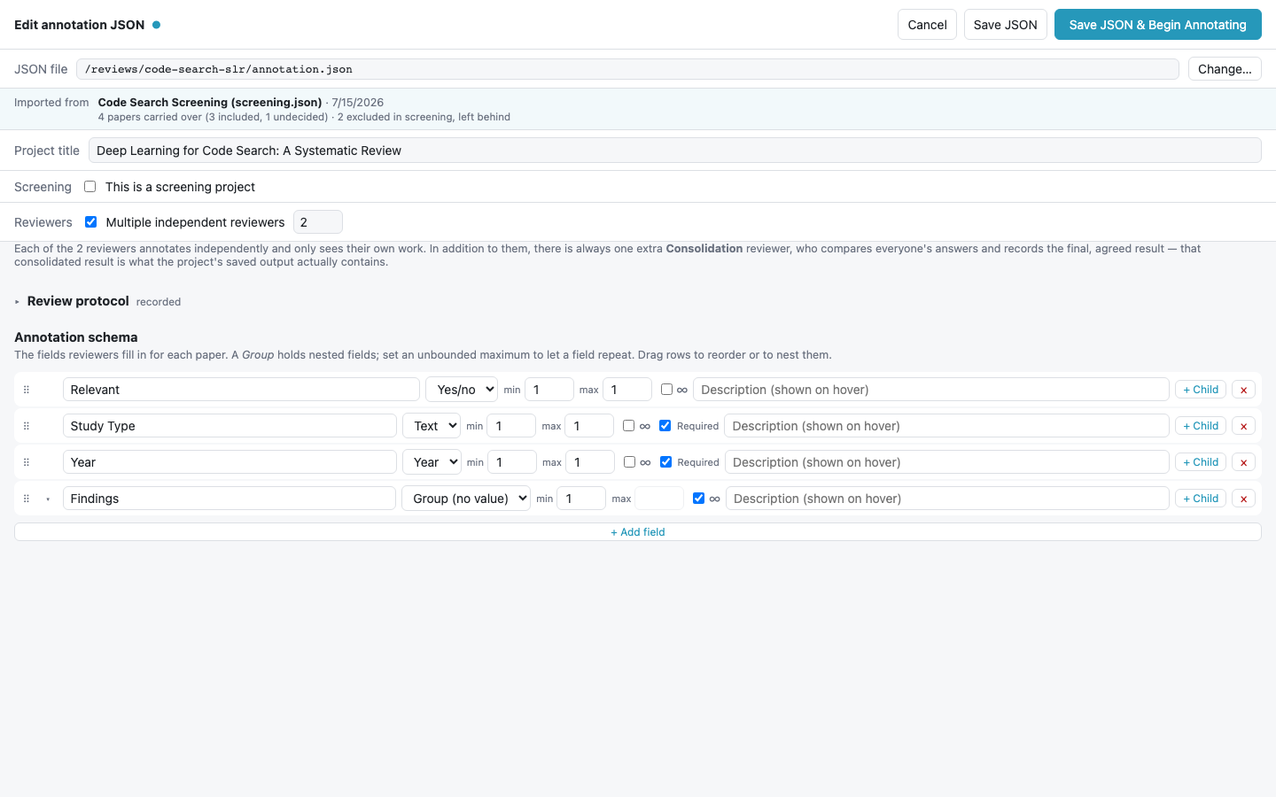
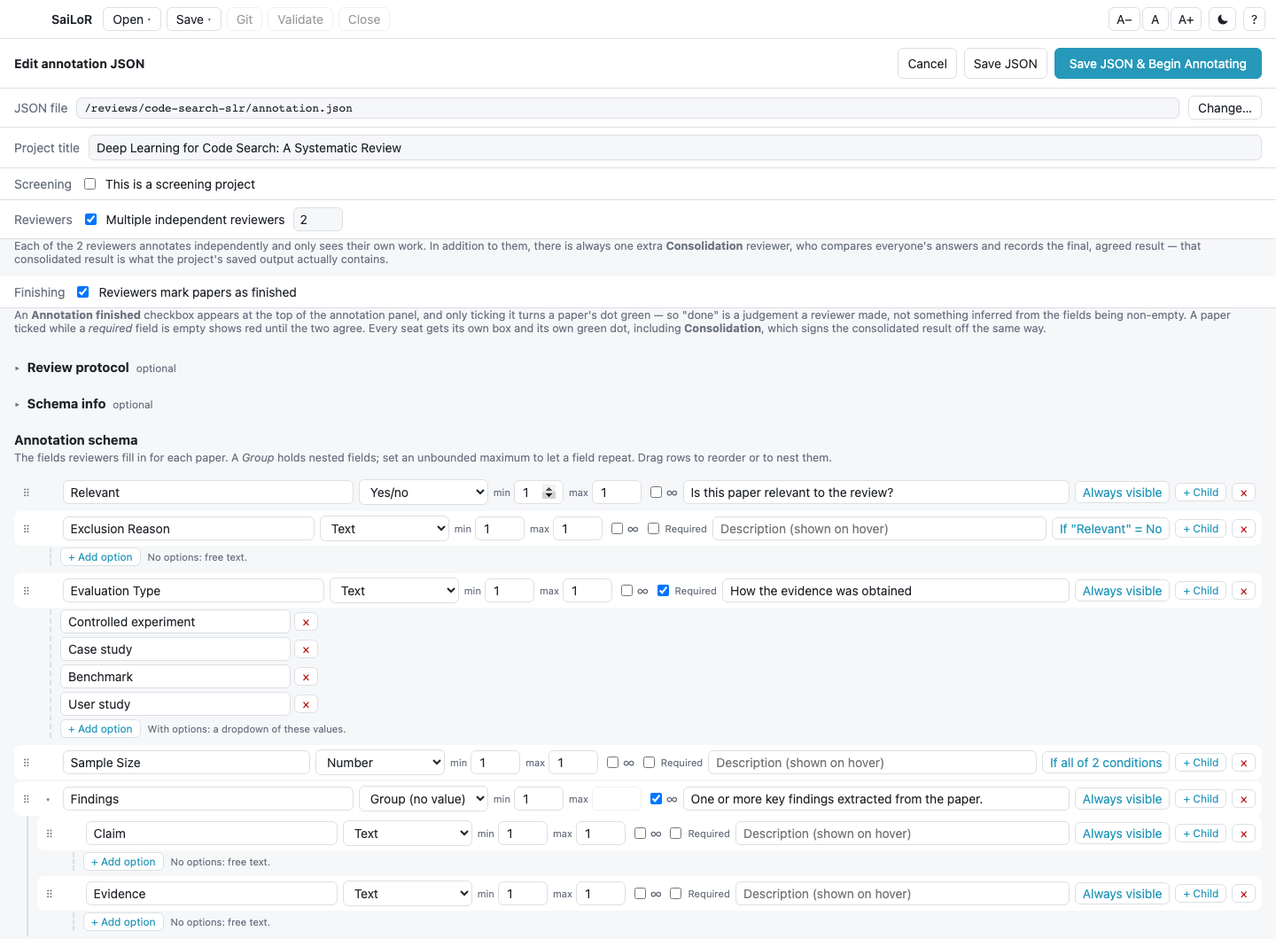
docs: document conditional visibility and refresh the project editor screenshots
`docs/annotation-schema.md` gains a section on `visibleIf`, which the format
reference never covered: the bare-name shorthand, value conditions, AND/OR,
nested groups, which fields may be referenced, and how a bare name differs
from a root path inside a repeatable group.

The project editor guide describes the visibility button and its dialog, and
its screenshot is retaken; a second one shows the dialog with a nested group.
Requirements REQ-DAT-110/140/200/220, REQ-EDT-60 and REQ-ANN-30 and the
traceability matrix follow the widened behaviour.

diff --git a/docs/requirements/traceability.md b/docs/requirements/traceability.md
@@ -62,18 +62,18 @@ inspection only.
 | REQ-DAT-80 | Degrade malformed sub-records without failing | Functional · Functional Suitability | `src/model/project.ts:347-571` | `src/model/model.test.ts:525, 777-789, 1015,1117-1146` | — | `openwiki/concepts/data-model.md` §Load: `loadProject`<br>`docs/annotation-schema.md` §2, §8 |
 | REQ-DAT-90 | Round-trip hostile values safely | Non-functional · Reliability, Security | — | `src/model/jsonvalues.test.ts:44-83` | commit `6933376` | `openwiki/concepts/data-model.md` §Load: `loadProject`<br>`docs/annotation-schema.md` §2, §8 |
 | REQ-DAT-100 | Mark PDF-extracted abstracts | Functional · Functional Suitability | `src/model/project.ts:745-748,828` | `src/model/model.test.ts:902-940` | — | `openwiki/concepts/data-model.md` §Load: `loadProject`<br>`docs/annotation-schema.md` §2, §8 |
-| REQ-DAT-110 | Schema node structure | Functional · Functional Suitability | `src/model/schema.ts:24-124` | `src/model/model.test.ts:58-144` | — | `openwiki/concepts/annotation-schema.md` §Field types / §Cardinality / §Resolution<br>`docs/annotation-schema.md` §3 |
+| REQ-DAT-110 | Schema node structure | Functional · Functional Suitability | `src/model/schema.ts:26-195` | `src/model/model.test.ts:58-144` | — | `openwiki/concepts/annotation-schema.md` §Field types / §Cardinality / §Resolution<br>`docs/annotation-schema.md` §3 |
 | REQ-DAT-120 | Unique sibling names | Functional · Functional Suitability | `src/model/schema.ts:296-327` | `src/model/model.test.ts:64` | — | `openwiki/concepts/annotation-schema.md` §Field types / §Cardinality / §Resolution<br>`docs/annotation-schema.md` §3 |
 | REQ-DAT-130 | Drop required on booleans | Functional · Functional Suitability | `src/model/schema.ts:340-345` | `src/model/model.test.ts:130` | — | `openwiki/concepts/annotation-schema.md` §Field types / §Cardinality / §Resolution<br>`docs/annotation-schema.md` §3 |
-| REQ-DAT-140 | Restrict visibleIf targets | Functional · Functional Suitability | `src/model/schema.ts:346-363` | `src/model/model.test.ts:165-235` | — | `openwiki/concepts/annotation-schema.md` §Field types / §Cardinality / §Resolution<br>`docs/annotation-schema.md` §3 |
+| REQ-DAT-140 | Restrict visibleIf targets and values | Functional · Functional Suitability | `src/model/schema.ts:346-443` | `src/model/model.test.ts:171-623` | — | `openwiki/concepts/annotation-schema.md` §Field types / §Cardinality / §Resolution<br>`docs/annotation-schema.md` §3 |
 | REQ-DAT-150 | Bound schema instance fan-out | Non-functional · Reliability, Security | `src/model/schema.ts:376-420` | `src/model/hostile.test.ts:18-67` | — | `openwiki/concepts/annotation-schema.md` §Field types / §Cardinality / §Resolution<br>`docs/annotation-schema.md` §3 |
 | REQ-DAT-160 | Normalize trees on load | Functional · Functional Suitability | `src/model/annotations.ts:64-124` | `src/model/model.test.ts:1221` | commit `b12f654` | `openwiki/concepts/data-model.md` §load → normalize → edit → prune → serialize |
 | REQ-DAT-170 | Prune only trailing empties on save | Functional · Functional Suitability | `src/model/annotations.ts:136-162`<br>`src/model/project.ts:877-879` | `src/model/model.test.ts:401,678` | — | `openwiki/concepts/data-model.md` §load → normalize → edit → prune → serialize |
 | REQ-DAT-180 | Total, non-throwing validation | Functional · Functional Suitability | `src/model/validate.ts:14-40,318-337` | — | — | `openwiki/concepts/annotation-schema.md` §Validation: the schema walk<br>`docs/annotation-schema.md` §8 |
 | REQ-DAT-190 | Required, type, enum, and cardinality checks | Functional · Functional Suitability | `src/model/validate.ts:57-243` | `src/model/validate.test.ts:116-128` | — | `openwiki/concepts/annotation-schema.md` §Validation: the schema walk<br>`docs/annotation-schema.md` §8 |
-| REQ-DAT-200 | Skip hidden fields in validation | Functional · Functional Suitability | `src/model/validate.ts:206-272` | `src/model/validate.test.ts:137-192` | — | `openwiki/concepts/annotation-schema.md` §Validation: the schema walk<br>`docs/annotation-schema.md` §8 |
+| REQ-DAT-200 | Skip hidden fields in validation | Functional · Functional Suitability | `src/model/validate.ts:206-280` | `src/model/validate.test.ts:137-284` | — | `openwiki/concepts/annotation-schema.md` §Validation: the schema walk<br>`docs/annotation-schema.md` §8 |
 | REQ-DAT-210 | Separate unannotated papers | Functional · Functional Suitability | `src/model/validate.ts:300-340`<br>`src/components/ValidationDialog.tsx:146-169` | — | — | `openwiki/concepts/annotation-schema.md` §Validation: the schema walk<br>`docs/annotation-schema.md` §8 |
-| REQ-DAT-220 | Completeness over the validated field set | Functional · Functional Suitability | `src/model/completeness.ts:24-59` | `src/model/completeness.test.ts:89-284` | — | `openwiki/concepts/annotation-schema.md` §Completeness and the paper-list dot<br>`user-guide/getting-started.md` §The completeness dot |
+| REQ-DAT-220 | Completeness over the validated field set | Functional · Functional Suitability | `src/model/completeness.ts:24-59` | `src/model/completeness.test.ts:89-351` | — | `openwiki/concepts/annotation-schema.md` §Completeness and the paper-list dot<br>`user-guide/getting-started.md` §The completeness dot |
 | REQ-DAT-230 | Non-misleading percentage display | Functional · Functional Suitability | `src/model/completeness.ts:124-129` | `src/model/completeness.test.ts:300-318` | — | `openwiki/concepts/annotation-schema.md` §Completeness and the paper-list dot<br>`user-guide/getting-started.md` §The completeness dot |
 | REQ-DAT-240 | Finished is a human declaration | Functional · Functional Suitability | `src/model/project.ts:135-152, 758,861` | — | — | `openwiki/concepts/data-model.md` §The five-state annotation vocabulary<br>`user-guide/getting-started.md` §Marking a paper finished |
 | REQ-DAT-250 | Derive finished when the checkbox is disabled | Functional · Functional Suitability | `src/model/annotationState.ts:79-87,205-207` | `src/components/PaperList.finished.test.ts:207-267` | — | `openwiki/concepts/data-model.md` §The five-state annotation vocabulary<br>`user-guide/getting-started.md` §Marking a paper finished |
@@ -95,7 +95,7 @@ inspection only.
 | REQ-EDT-30 | Create papers from PDFs | Functional · Functional Suitability | `src/state/editorStore.ts:300-350,1213-1237` | — | — | `openwiki/architecture.md` §Project editor<br>`user-guide/project-editor.md` |
 | REQ-EDT-40 | Warn before destroying answers | Functional · Functional Suitability | `src/components/SchemaTreeEditor.tsx:124-276`<br>`src/model/fieldUsage.ts:59-140` | — | commits `a0034e9`<br>`638e1b5` | `openwiki/architecture.md` §Project editor<br>`user-guide/project-editor.md`<br>`openwiki/concepts/annotation-schema.md` §Field usage: guarding schema renames and removes |
 | REQ-EDT-50 | Confirm removal of annotated papers | Functional · Functional Suitability | `src/components/PapersEditor.tsx:90-102` | — | — | `openwiki/architecture.md` §Project editor<br>`user-guide/project-editor.md` |
-| REQ-EDT-60 | Edit schema tree graphically | Functional · Functional Suitability | `src/components/SchemaTreeEditor.tsx:20-26, 211-240,285-509` | — | — | `openwiki/architecture.md` §Project editor<br>`user-guide/project-editor.md` |
+| REQ-EDT-60 | Edit schema tree graphically | Functional · Functional Suitability | `src/components/SchemaTreeEditor.tsx:20-26, 211-240,285-470`<br>`src/components/VisibleIfDialog.tsx:150-1004` | `src/components/VisibleIfDialog.test.ts` | — | `openwiki/architecture.md` §Project editor<br>`user-guide/project-editor.md` |
 | REQ-EDT-70 | Record the review protocol | Functional · Functional Suitability | `src/components/ProtocolEditor.tsx:38-132`<br>`src/model/project.ts:515-534` | — | — | `openwiki/architecture.md` §Project editor<br>`user-guide/project-editor.md` |
 | REQ-EDT-80 | Show schema info once per load | Functional · Functional Suitability | `src/components/SchemaInfoDialog.tsx:5-63` | — | commit `8322d10` | `openwiki/architecture.md` §Project editor<br>`user-guide/project-editor.md` |
 | REQ-EDT-90 | Reorder papers by drag | Functional · Functional Suitability | `src/components/PapersEditor.tsx:43-343` | — | — | `openwiki/architecture.md` §Project editor<br>`user-guide/project-editor.md` |
@@ -106,7 +106,7 @@ inspection only.
 |---|---|---|---|---|---|---|
 | REQ-ANN-10 | Render form from schema | Functional · Functional Suitability | `src/components/AnnotationPanel.tsx:92-116`<br>`src/components/AnnotationNode.tsx` | — | — | `openwiki/architecture.md` §AnnotationNode (recursive renderer) / §Field component<br>`user-guide/getting-started.md` |
 | REQ-ANN-20 | Type-specific field controls | Functional · Functional Suitability | `src/components/Field.tsx:18, 135-191,471-513` | — | — | `openwiki/architecture.md` §AnnotationNode (recursive renderer) / §Field component<br>`user-guide/getting-started.md` |
-| REQ-ANN-30 | Conditional field visibility | Functional · Functional Suitability | `src/model/annotations.ts:195-211`<br>`src/components/AnnotationNode.tsx:115-135` | — | commits `254ad06`<br>`e1b3dd0`<br>`a5061b0` | `openwiki/architecture.md` §AnnotationNode (recursive renderer) / §Field component<br>`user-guide/getting-started.md` |
+| REQ-ANN-30 | Conditional field visibility | Functional · Functional Suitability | `src/model/annotations.ts:216-287`<br>`src/components/AnnotationNode.tsx:115-140` | `src/model/model.test.ts:645-948` | commits `254ad06`<br>`e1b3dd0`<br>`a5061b0` | `openwiki/architecture.md` §AnnotationNode (recursive renderer) / §Field component<br>`user-guide/getting-started.md` |
 | REQ-ANN-40 | Cardinality-controlled instances | Functional · Functional Suitability | `src/components/AnnotationNode.tsx:67-93`<br>`src/model/annotations.ts:127-134` | — | — | `openwiki/architecture.md` §AnnotationNode (recursive renderer) / §Field component<br>`user-guide/getting-started.md` |
 | REQ-ANN-50 | Grab value from PDF selection | Functional · Functional Suitability | `src/components/Field.tsx:117-133, 154-155,192-201` | — | — | `openwiki/architecture.md` §AnnotationNode (recursive renderer) / §Field component<br>`user-guide/getting-started.md` |
 | REQ-ANN-60 | Field descriptions with links | Functional · Functional Suitability | `src/components/NodeName.tsx:18-34,83-256`<br>`src/model/linkify.ts:14-55` | — | commits `2b66bac`<br>`4271e2e` | `openwiki/architecture.md` §AnnotationNode (recursive renderer) / §Field component<br>`user-guide/getting-started.md` |

diff --git a/docs/annotation-schema.md b/docs/annotation-schema.md
@@ -165,6 +165,7 @@ thing you want to record. A node is written as a JSON object (its technical name
 | `options`     | array of strings                       | no       | —       | Turns a `string` field into an **enum dropdown** of allowed values (see §3.2).            |
 | `required`    | boolean                                | no       | `false` | Marks a **field** the reviewer must fill in. Shows a `*` next to the name; an empty one is reported by validation. Only valid on a node with a `type` — **and never on a `boolean`**: an unticked checkbox is already a real answer (`false`), so a boolean is never "empty" and `required` on one can never fire. The editor doesn't offer it there, and a stray one in a hand-edited file is dropped on load (not an error). |
 | `description` | string                                 | no       | —       | A help note. The name shows an ⓘ marker and reveals this text on hover.                    |
+| `visibleIf`   | string or object                       | no       | —       | Hides this node until another field is answered — or holds a specific value. Combine several conditions with AND/OR (see §3.6). |
 
 Two structural rules the app enforces:
 
@@ -373,6 +374,149 @@ You can bound a repeatable group as well. Between one and three threats:
   ]
 }
 ```
+
+### 3.6 Conditional visibility: `visibleIf`
+
+A node can be hidden until another field says it is relevant. In the shortest form,
+`visibleIf` is the **name of another field**, and the node appears once that field has an
+answer:
+
+```json
+[
+  { "name": "Relevant", "type": "boolean" },
+  { "name": "Study Type", "type": "string", "visibleIf": "Relevant" }
+]
+```
+
+`Study Type` stays hidden while `Relevant` is unticked, and appears the moment it is ticked.
+"Answered" means: ticked for a `boolean`, and any non-empty value for everything else.
+
+**Which fields may be referenced.** A condition may name
+
+- a **field at the same level** (a sibling in the same `children` array, or in the root list), or
+- a field **anywhere on the direct ancestor chain** — the parent, its parent, and so on, named by
+  its bare name, or
+- **any other field in the schema**, named by its **path from the root**, slash-joined:
+  `"Outcomes/Effect Size"`. A root-level field referenced from inside a group is a one-segment
+  path, so a bare name that is neither a sibling nor an ancestor is looked up this way too.
+
+It may **not** name a group (a group holds no value), itself, or anything **inside its own
+sub-tree** — a field under a hidden node can never be answered, so such a gate could never
+open. An unusable reference is dropped silently when the project loads, and simply stops
+gating anything — a renamed or removed target field is *not* reported.
+
+The distinction between the two spellings matters inside a **repeatable** group. A bare name is
+resolved per entry: `Findings[2]/Evidence` gated on the bare name `Claim` reads *that same
+entry's* `Claim`. A path from the root is resolved once, taking the **first** entry of every
+repeatable node along the way — there is no "current" entry outside the gated node's own
+lineage, so the first one is what a cross-branch condition reads.
+
+`visibleIf` works on a **group** too, in which case the whole sub-tree is hidden. A hidden
+field is skipped by validation and by the completeness dot, so a `required` field behind an
+unsatisfied gate never counts against a paper.
+
+#### Matching a specific value
+
+The longer form of `visibleIf` is an object with a `mode` and a list of `conditions`:
+
+```json
+{
+  "name": "Exclusion Reason",
+  "type": "string",
+  "visibleIf": {
+    "mode": "all",
+    "conditions": [{ "field": "Relevant", "equals": [false] }]
+  }
+}
+```
+
+Now `Exclusion Reason` appears exactly when `Relevant` is **unticked** — something the short
+form cannot express, since an unticked box reads as "not answered".
+
+`equals` lists the values that satisfy the condition; several values mean "any of these".
+It only works on a field with a **closed set of answers**:
+
+- a `boolean` field — `[true]`, `[false]`, or both;
+- a `string` field with **`options`** — any subset of those options.
+
+```json
+{
+  "name": "Sample Size",
+  "type": "number",
+  "visibleIf": {
+    "mode": "all",
+    "conditions": [{ "field": "Evaluation Type", "equals": ["Controlled experiment", "User study"] }]
+  }
+}
+```
+
+On a free-text, `number` or `year` field there is no set to choose from, so an `equals` there is
+dropped on load and the condition falls back to plain "is it answered". Values that are not
+among the target's `options` are dropped the same way.
+
+#### Combining conditions: AND / OR
+
+With more than one condition, `mode` decides how they combine:
+
+- `"all"` — **AND**: every condition must hold.
+- `"any"` — **OR**: at least one condition must hold.
+
+```json
+{
+  "name": "Replication Package URL",
+  "type": "string",
+  "visibleIf": {
+    "mode": "all",
+    "conditions": [
+      { "field": "Relevant", "equals": [true] },
+      { "field": "Artifacts Available", "equals": [true] }
+    ]
+  }
+}
+```
+
+Each condition is looked up on its own, so one condition may watch a sibling and the next an
+ancestor. A condition naming a field that cannot be found at all is treated as satisfied — a
+malformed gate never makes a field permanently unreachable.
+
+#### Nested condition groups
+
+An entry of `conditions` may be **another gate** instead of a single condition, which is how a
+mixed rule gets written: the inner group carries its own `mode`, and the outer one combines it
+with everything else.
+
+```json
+{
+  "name": "Sample Size",
+  "type": "number",
+  "visibleIf": {
+    "mode": "all",
+    "conditions": [
+      { "field": "Relevant", "equals": [true] },
+      {
+        "mode": "any",
+        "conditions": [
+          { "field": "Study Type", "equals": ["Controlled experiment"] },
+          { "field": "Study Type", "equals": ["User study"] }
+        ]
+      }
+    ]
+  }
+}
+```
+
+That reads: shown if `Relevant` is ticked **and** (`Study Type` is a controlled experiment **or**
+a user study). Groups may nest as deeply as the rule needs. A group that ends up with no usable
+conditions is dropped from its parent, exactly as a single unusable condition is — and if that
+empties the whole gate, the node becomes always visible again.
+
+(The example above is deliberately over-written to show the nesting: two `equals` on the same
+field are the same thing as one condition listing both values.)
+
+In the project editor you do not write any of this by hand: the schema row has a **link
+button** showing the current rule ("Always visible", `If "Relevant" = Yes`, …), and
+clicking it opens a dialog where conditions are added, pointed at a field, given values, and
+combined with AND or OR — including nested groups, for the mixed rules above.
 
 ---
 

diff --git a/docs/requirements/data-model.md b/docs/requirements/data-model.md
@@ -71,9 +71,9 @@ the project editor. See the [index](index.md) for the glossary.
 ## Annotation schema
 
 ### REQ-DAT-110 — Schema node structure
-- **Description:** The system shall accept schema nodes with a non-empty name, an optional field type of string, number, boolean, or year, cardinality bounds `min` (integer ≥ 0, default 1) and `max` (integer ≥ 1 or null for unbounded, default 1, at least `min` when finite), optional description, enum options (string fields only), a required flag (typed fields only), a `visibleIf` reference, and children, rejecting unknown node keys and nodes with neither a type nor children.
+- **Description:** The system shall accept schema nodes with a non-empty name, an optional field type of string, number, boolean, or year, cardinality bounds `min` (integer ≥ 0, default 1) and `max` (integer ≥ 1 or null for unbounded, default 1, at least `min` when finite), optional description, enum options (string fields only), a required flag (typed fields only), a `visibleIf` gate (either a bare field name or an object with a `mode` of `all`/`any` and a non-empty list of entries, each a `{ field, equals? }` condition or a nested group of the same shape), and children, rejecting unknown node keys and nodes with neither a type nor children.
 - **Type:** Functional (ISO 25010: Functional Suitability)
-- **Evidence:** `src/model/schema.ts:24-124`, `src/model/model.test.ts:58-144`
+- **Evidence:** `src/model/schema.ts:26-195`, `src/model/model.test.ts:58-144`
 - **Status:** Implemented
 
 ### REQ-DAT-120 — Unique sibling names
@@ -88,10 +88,10 @@ the project editor. See the [index](index.md) for the glossary.
 - **Evidence:** `src/model/schema.ts:340-345`, `src/model/model.test.ts:130`
 - **Status:** Implemented
 
-### REQ-DAT-140 — Restrict visibleIf targets
-- **Description:** The system shall honor a `visibleIf` reference only when it names a same-level typed sibling or a typed field on the direct ancestor chain, and shall drop invalid references at schema resolution.
+### REQ-DAT-140 — Restrict visibleIf targets and values
+- **Description:** The system shall normalize every `visibleIf` gate at schema resolution — expanding the bare-name form into a single `all` condition and recursing into nested groups — and shall resolve each condition's `field` as a same-level typed sibling, else a typed field on the direct ancestor chain, else a slash-joined absolute path from the schema root, dropping the condition when it resolves to the gated node itself, to anything in the gated node's own subtree, to a group, or to nothing; then any group left empty, and, once none is left, the whole gate. An `equals` shall be honored only on a boolean field (its `true`/`false`) or a string field with non-empty `options` (values among those options); values the target cannot hold, and any `equals` on a free-text, number, or year field, shall be dropped so that the condition degrades to "is it answered".
 - **Type:** Functional (ISO 25010: Functional Suitability)
-- **Evidence:** `src/model/schema.ts:346-363`, `src/model/model.test.ts:165-235`
+- **Evidence:** `src/model/schema.ts:346-443`, `src/model/model.test.ts:171-623`
 - **Status:** Implemented
 
 ### REQ-DAT-150 — Bound schema instance fan-out
@@ -129,9 +129,9 @@ the project editor. See the [index](index.md) for the glossary.
 - **Status:** Implemented
 
 ### REQ-DAT-200 — Skip hidden fields in validation
-- **Description:** When a field or group is hidden by an unanswered `visibleIf` gate, the system shall exclude it from validation.
+- **Description:** When a field or group is hidden by an unsatisfied `visibleIf` gate — whether the gate asks for any answer or for specific values — the system shall exclude it from validation.
 - **Type:** Functional (ISO 25010: Functional Suitability)
-- **Evidence:** `src/model/validate.ts:206-272`, `src/model/validate.test.ts:137-192`
+- **Evidence:** `src/model/validate.ts:206-280`, `src/model/validate.test.ts:137-284`
 - **Status:** Implemented
 
 ### REQ-DAT-210 — Separate unannotated papers
@@ -145,7 +145,7 @@ the project editor. See the [index](index.md) for the glossary.
 ### REQ-DAT-220 — Completeness over the validated field set
 - **Description:** The system shall compute a paper's completeness as filled over counted fields, counting only required fields when the schema marks any field required and all fields otherwise, excluding boolean fields and fields hidden by visibility gates, using the same rule as validation.
 - **Type:** Functional (ISO 25010: Functional Suitability)
-- **Evidence:** `src/model/completeness.ts:24-59`, `src/model/completeness.test.ts:89-284`
+- **Evidence:** `src/model/completeness.ts:24-59`, `src/model/completeness.test.ts:89-351`
 - **Status:** Implemented
 
 ### REQ-DAT-230 — Non-misleading percentage display
@@ -285,9 +285,9 @@ the project editor. See the [index](index.md) for the glossary.
 - **Status:** Implemented
 
 ### REQ-EDT-60 — Edit schema tree graphically
-- **Description:** The system shall provide a drag-and-drop schema tree editor offering group, text, number, year, and yes/no nodes, inline enum options, cardinality inputs with an unbounded toggle, descriptions, a required checkbox for eligible fields, a `visibleIf` selector restricted to legal targets, and refusal of drops into a node's own subtree.
+- **Description:** The system shall provide a drag-and-drop schema tree editor offering group, text, number, year, and yes/no nodes, inline enum options, cardinality inputs with an unbounded toggle, descriptions, a required checkbox for eligible fields, a visibility-gate button that summarizes the node's `visibleIf` and opens a dialog for editing it (the gated node's tree path and type, conditions restricted to legal targets and labelled with each target's level and value kind, an explicit any-answer/specific-value choice per condition, values offered only for yes/no and option-list fields, arbitrarily nested AND/OR groups that can be extended after creation, targets listed same-level first then ancestors then the rest of the schema in document order, per-entry reordering and removal, and drag-and-drop of a condition or a whole group into another group), and refusal of drops into a node's own subtree.
 - **Type:** Functional (ISO 25010: Functional Suitability)
-- **Evidence:** `src/components/SchemaTreeEditor.tsx:20-26,211-240,285-509`
+- **Evidence:** `src/components/SchemaTreeEditor.tsx:20-26,211-240,285-470`, `src/components/VisibleIfDialog.tsx:150-1004`, `src/components/VisibleIfDialog.test.ts`
 - **Status:** Implemented
 
 ### REQ-EDT-70 — Record the review protocol

diff --git a/user-guide/project-editor.md b/user-guide/project-editor.md
@@ -8,7 +8,7 @@ Reach it from the start screen (**New annotation JSON…** / **Edit annotation J
 *Open ▾* while a project is already open.
 
 <p align="center">
-  <img src="screenshots/project-editor-schema.png" alt="The project editor: location, title, screening toggle, reviewer count, the review protocol section, and the schema tree" width="900">
+  <img src="screenshots/project-editor-schema.png" alt="The project editor: location, title, screening toggle, reviewer count, the review protocol section, and the schema tree with a visibility button on every row" width="900">
 </p>
 
 ## Where the JSON lives
@@ -31,14 +31,62 @@ Each row is one field or group:
   stays free text.
 - **Required** — the reviewer must fill it in before Validate is satisfied. Not offered on *Yes/No*
   fields; see [Things to know](things-to-know.md#a-smaller-one-a-yesno-field-can-never-be-reported-as-missing).
-- **Show only if** — pick a field here to hide this row until that field has an answer (a checked
-  *Yes/No*, or anything non-empty for other types). Available on *Group* rows too, not just fields —
-  gating a group hides everything nested inside it at once, rather than each field individually. Leave
-  it on *Always visible* for no gating. The dropdown offers fields at the *same level* (same group, or
-  the top level) and, separately, any *ancestor* field this row is nested under — the group it's
-  inside, that group's own group, and so on — so "hide this until its parent field is answered" works
-  directly. A field further removed than that (a cousin, e.g. a sibling of one of those ancestors)
-  can't be picked.
+- **The visibility button** — every row carries a button spelling out when the row is shown:
+  *Always visible*, `If "Relevant" has any answer`, `If "Relevant" = Yes`, or
+  *If all of 2 conditions* (the full rule is in its tooltip). Click it to open the **When to show
+  "…"** dialog, which names the field being gated and its type, and where you add one or more
+  **conditions** and pick, per condition:
+  - the **field to watch** — the picker lists, in this order, fields at the *same level* (same
+    group, or the top level), then *ancestor* fields this row is nested under (nearest first: the
+    group it's inside, that group's own group, and so on), then everything *elsewhere in the
+    schema*, top to bottom, shown with its path. The only fields you cannot watch are the row
+    itself and anything nested **under** it — a field inside a hidden node can never be answered,
+    so such a rule could never open. A condition on a field from elsewhere reads the **first**
+    entry of any repeatable group on the way to it (the dialog says so when you use one);
+    same-level and ancestor conditions read the entry the row itself belongs to.
+  - **what counts as satisfied** — *has any answer*, or *has a specific value*. The first is the
+    plain "the reviewer filled this in" test: a ticked box on a *Yes/No* field, any non-empty value
+    on every other kind — and it stays available for every field, whatever its type. The second
+    offers *Yes* / *No* on a *Yes/No* field, and the option list on a *Text* field with fixed
+    choices (tick several and any one of them counts). Free text, *Number* and *Year* have no fixed
+    set of answers to pick from, so *has any answer* is the only test there, and the dialog says so.
+
+  Every field in the picker is labelled with **where it lives** (same level, or how far up the tree
+  it sits and in which group) and **what it holds** (Yes/No, Number, Year, free text, or text with
+  N fixed choices), so you can tell two same-named fields in different branches apart.
+
+  With two or more conditions you also choose how they combine: **all of these must hold (AND)** or
+  **any of these may hold (OR)**. **+ Add group** nests a group with its own AND/OR inside the
+  current one, which is how a mixed rule is built — *Relevant is Yes* **and** *(Evaluation Type is a
+  controlled experiment* **or** *a user study)*. Groups nest as deeply as the rule needs, and one
+  left empty is simply dropped.
+
+  Every group keeps its own **+ Add condition** / **+ Add group** buttons, labelled *Add to this
+  group*, so you can extend a group at any time — not only when you create it. Each condition and
+  each nested group also carries **↑ / ↓** buttons that move it among its neighbours, and **×** to
+  remove it; the arrows stop at the first and last entry of the group they are in.
+
+  To move something *between* groups, **drag its ⠿ handle** — the same gesture the schema tree
+  itself uses. Drop near an entry's top or bottom edge to land before or after it, or in the middle
+  of a group to move inside that group; drop on the outer rule to lift an entry back out to the top
+  level. A group can be dragged whole, carrying its conditions and its own AND/OR with it, and a
+  drop into itself is refused. Nothing has to be deleted and rebuilt, so a condition you already
+  filled in keeps its values. A sentence under the conditions always spells the whole rule out, so
+  you can read back what you built:
+
+<p align="center">
+  <img src="screenshots/project-editor-visibility.png" alt="The 'When to show' dialog: the gated field and its type, an AND/OR selector, a condition on Relevant = Yes, a nested OR group matching two Evaluation Type options, and the rule spelled out as a sentence" width="900">
+</p>
+
+  **Always visible**, bottom left, clears the gate again — it removes every condition, and says so
+  next to the button. Nothing is written to the project until you press **Save**.
+
+  Note that *No* on a *Yes/No* field needs the explicit value condition: an unticked box counts as
+  "not answered", so *has any answer* never fires for it — which is exactly how you show an
+  "Exclusion reason" field only once *Relevant* is unticked.
+
+  Gating is available on *Group* rows too, not just fields — gating a group hides everything nested
+  inside it at once, rather than each field individually.
 - **Drag a row's ⠿ handle** to reorder or nest it: drop near a row's top or bottom edge to place it
   before or after; drop in the middle of a row to nest it inside.
 

diff --git a/docs/requirements/annotation-ui.md b/docs/requirements/annotation-ui.md
@@ -21,9 +21,9 @@ export. See the [index](index.md) for the glossary.
 - **Status:** Implemented
 
 ### REQ-ANN-30 — Conditional field visibility
-- **Description:** When a node defines a `visibleIf` reference, the system shall show the node only while the referenced same-level or ancestor field is answered.
+- **Description:** When a node defines a `visibleIf` gate, the system shall show the node only while the gate holds: each condition is satisfied when the referenced field is answered, or — where the condition lists `equals` values — when that field holds one of them, the field being resolved as a same-level sibling, else an ancestor, else an absolute path walked from the paper's root tree taking the first entry of every repeatable node along it; entries are combined with AND (`mode: "all"`) or OR (`mode: "any"`), an entry may itself be a nested group with its own mode, and a condition whose field is found nowhere is treated as satisfied.
 - **Type:** Functional (ISO 25010: Functional Suitability)
-- **Evidence:** `src/model/annotations.ts:195-211`, `src/components/AnnotationNode.tsx:115-135`, commits `254ad06`, `e1b3dd0`, `a5061b0`
+- **Evidence:** `src/model/annotations.ts:216-287`, `src/model/model.test.ts:645-948`, `src/components/AnnotationNode.tsx:115-140`, `src/components/AnnotationPanel.tsx:264-270`, commits `254ad06`, `e1b3dd0`, `a5061b0`
 - **Status:** Implemented
 
 ### REQ-ANN-40 — Cardinality-controlled instances
